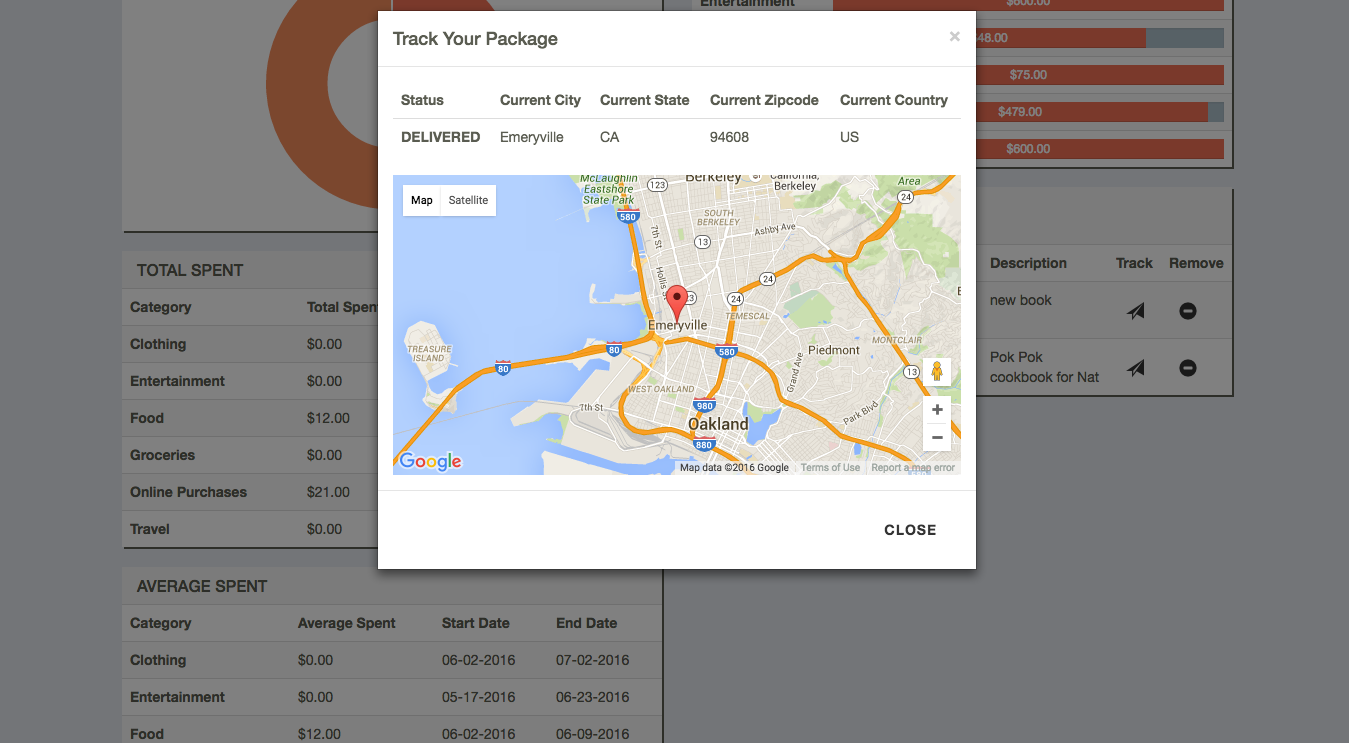
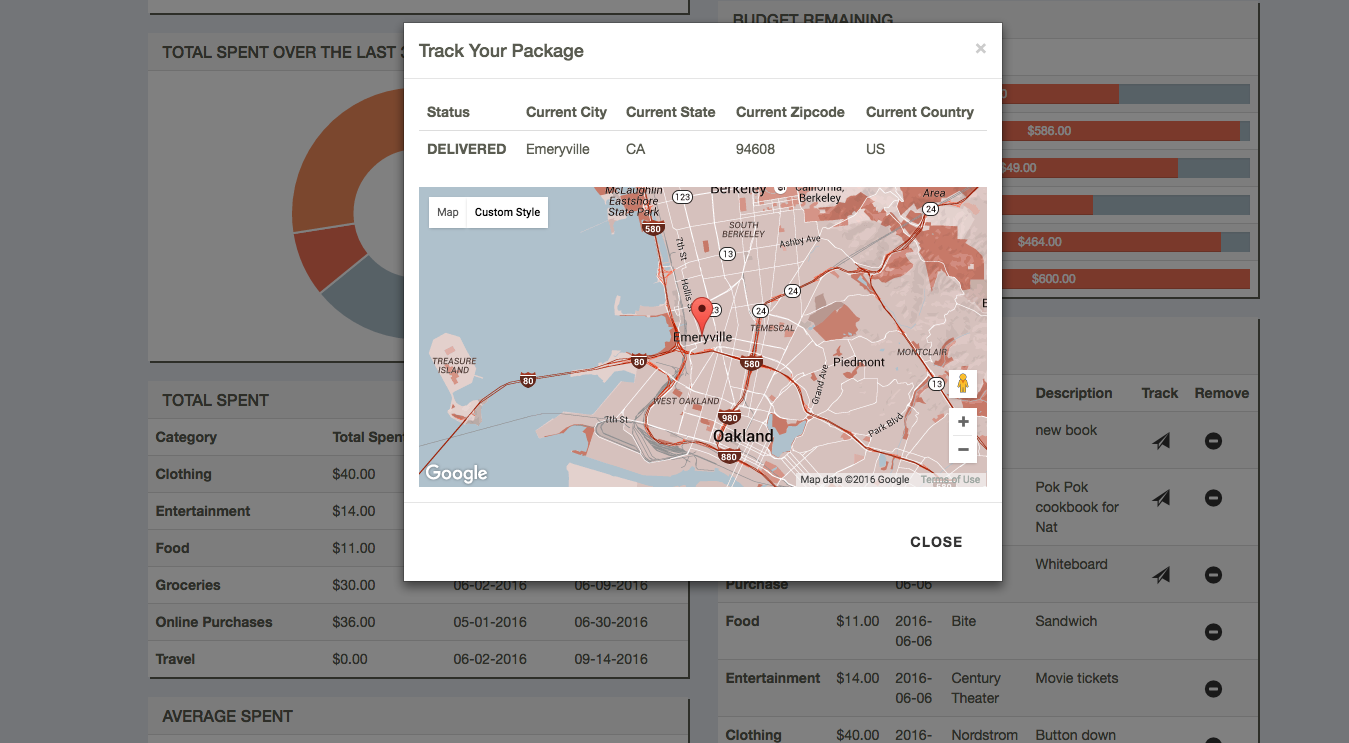
changed the map colors

diff --git a/static/js/map.js b/static/js/map.js
@@ -5,10 +5,38 @@ function initMap(thing) {
     console.log("this is initMap address");
     console.log(address);
 
+    var customMapType = new google.maps.StyledMapType([
+      {
+        stylers: [
+          {hue: '#F37257'},
+          {visibility: 'simplified'},
+          {gamma: 0.5},
+          {weight: 0.5}
+        ]
+      },
+      {
+        elementType: 'labels',
+        stylers: [{visibility: 'on'}]
+      },
+      {
+        featureType: 'water',
+        stylers: [{color: '#AFC1CC'}]
+      }
+    ], {
+      name: 'Custom Style'
+  });
+  var customMapTypeId = 'custom_style';
+
     var map = new google.maps.Map(document.getElementById('map'), {
       center: {lat: 37.7749, lng: -122.4194},
-      zoom: 12
+      zoom: 12,
+      mapTypeControlOptions: {
+      mapTypeIds: [google.maps.MapTypeId.ROADMAP, customMapTypeId]
+    }
     });
+
+    map.mapTypes.set(customMapTypeId, customMapType);
+  map.setMapTypeId(customMapTypeId);
 
     var geocoder = new google.maps.Geocoder();
 
